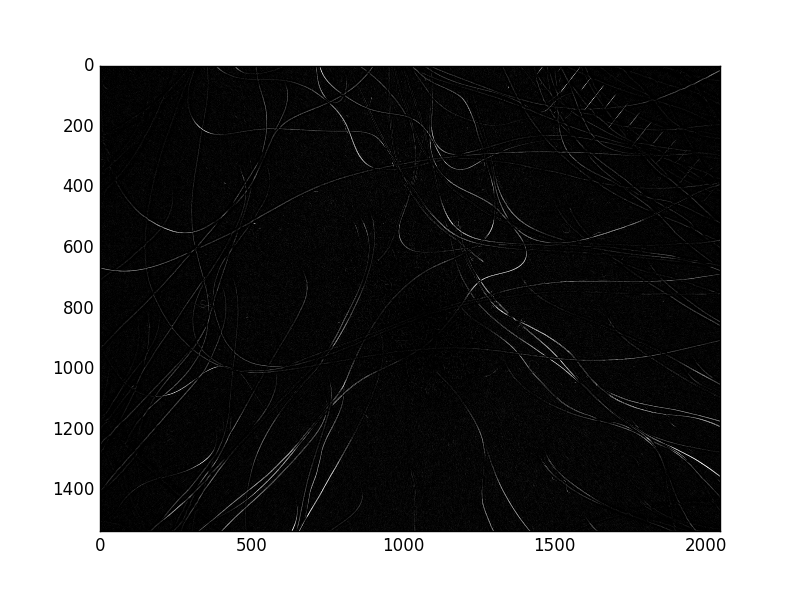
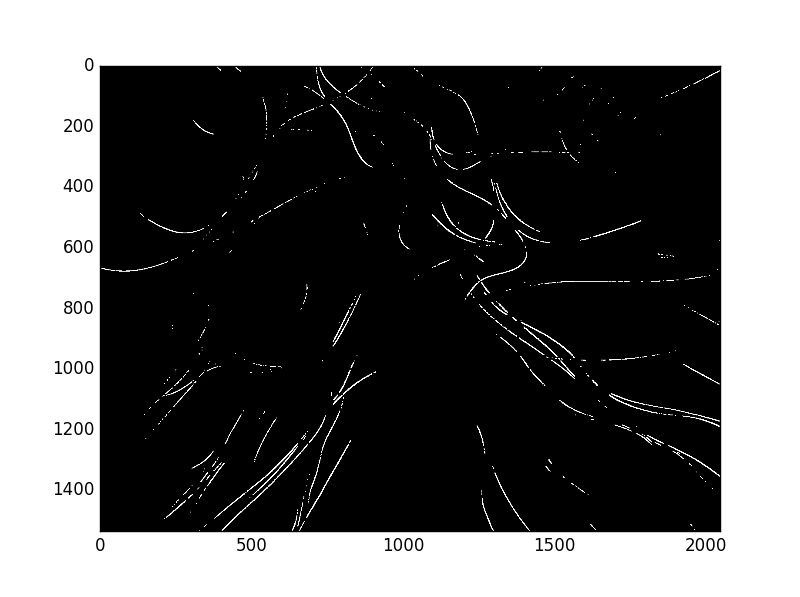
hairRemove, median filter, guided filter

diff --git a/fusion.py b/fusion.py
@@ -1,0 +1,94 @@
+from imagerie import *
+from scipy.ndimage.filters import laplace
+from scipy.ndimage import uniform_filter, gaussian_filter
+
+
+def extract_windows(A, size, padding=True):
+    # inspired by http://stackoverflow.com/questions/30109068/implement-matlabs-im2col-sliding-in-python
+    if padding:
+        before = int((size - 1) / 2)
+        after = size - 1 - before
+        A = np.pad(A, ((before, after), (before, after)), 'mean')
+    M,N = A.shape
+    B = [M - size + 1, N - size + 1]
+    col_extent = N - B[1] + 1
+    row_extent = M - B[0] + 1
+    start_idx = np.arange(B[0])[:,None]*N + np.arange(B[1])
+    offset_idx = np.arange(row_extent)[:,None]*N + np.arange(col_extent)
+    return np.take (A,start_idx.ravel()[:,None] + offset_idx.ravel())
+
+def guided_filtering(im, guide, size=3, epsilon=0.1):
+    if size % 2 != 1:
+        raise ArgumentError('Size must be an odd number.')
+    
+    if len(guide.shape) >= 3:
+        return sum([guided_filtering(im, guide[:,:,k], size, epsilon) for k in range(guide.shape[2])])
+        
+    # extract windows
+    im_wins = extract_windows(im, size)
+    guide_wins = extract_windows(guide, size)
+    
+    mu_k = guide_wins.mean(axis=1)
+    nu_k = im_wins.mean(axis=1)
+    delta_k = guide_wins.std(axis=1)
+    a_k = (im_wins * guide_wins).mean(axis=1) - mu_k * nu_k / (delta_k + epsilon)
+    b_k = nu_k - a_k * mu_k
+    
+    a_wins = extract_windows(a_k.reshape(*im.shape), size)
+    b_wins = extract_windows(b_k.reshape(*im.shape), size)
+    
+    return a_wins.mean(axis=1).reshape(*im.shape) * guide + b_wins.mean(axis=1).reshape(*im.shape)
+
+def extract_maps(im, average_filter_size=31, sigma_r=5):
+    base_layer = uniform_filter(im, size=average_filter_size)
+    detail_layer = im - base_layer
+    if len(im.shape) >= 3:
+        imgray = rgb2gray(im)
+    else:
+        imgray = im.astype(np.float64) - 0.0001
+    saliency = gaussian_filter(abs(laplace(imgray)), sigma_r)
+    return base_layer, detail_layer, saliency
+
+def GFF(images,
+        average_filter_size = 31,
+        sigma_r=5,
+        r_base=5,
+        epsilon_base=2,
+        r_detail=5,
+        epsilon_detail=0.1,
+        return_info=False):
+    
+    base_layers, detail_layers, saliencies = zip(*[extract_maps(im, average_filter_size, sigma_r) for im in images])
+    saliency_idx = np.argmax(saliencies, axis=0)
+    
+    masks = [saliency_idx == i for i in range(len(images))]
+    
+    base_weights = [guided_filtering(mask, im / 255, size=r_base, epsilon=epsilon_base) for im, mask in zip(images, masks)]
+    detail_weights = [guided_filtering(mask, im / 255, size=r_detail, epsilon=epsilon_detail) for im, mask in zip(images, masks)]
+    
+    # a bit hacky
+    if len(images[0].shape) >= 3:
+        base_weights = [w[:,:,None] for w in base_weights]
+        detail_weights = [w[:,:,None] for w in detail_weights]
+    
+    base = sum([base * weight for base, weight in zip(base_layers, base_weights)]) / sum(base_weights)
+    detail = sum([detail * weight for detail, weight in zip(detail_layers, base_weights)]) / sum(base_weights)
+    
+    result = base + detail
+    
+    if not return_info:
+        return result
+    
+    info = {}
+    info['saliencies'] = saliencies
+    info['masks'] = masks
+    return result, info
+
+def cGFF(images, *args, **kwargs):
+    r = GFF([i.astype(np.float64) for i in images], *args, **kwargs)
+    if type(r) == tuple:
+        (r[0].astype(np.uint8),) + r[1:]
+        return r
+    else:
+        return r.astype(np.uint8)
+

diff --git a/guidedFilter.py b/guidedFilter.py
@@ -1,0 +1,66 @@
+import numpy as np
+import os
+import glob
+import cv2
+import math
+import matplotlib.pyplot as plt
+import time
+import re
+
+from imagerie import *
+from fusion import *
+from scipy.misc import toimage, imsave
+from scipy.ndimage.filters import laplace
+from scipy.ndimage import uniform_filter, gaussian_filter
+
+img1 = cv2.imread('11.jpg')
+img2 = cv2.imread('11.jpg')
+plt.imshow(cv2.cvtColor(img1, cv2.COLOR_BGR2RGB))
+plt.show()
+
+def extract_maps(im, average_filter_size=31, sigma_r=5):
+    base_layer = uniform_filter(im, size=average_filter_size)
+    detail_layer = im - base_layer
+    if len(im.shape) >= 3:
+        imgray = rgb2gray(im)
+    else:
+        imgray = im.astype(np.float64) - 0.0001
+    saliency = gaussian_filter(abs(laplace(imgray)), sigma_r)
+    return base_layer, detail_layer, saliency
+
+def GFF(images,
+        average_filter_size = 31,
+        sigma_r=5,
+        r_base=5,
+        epsilon_base=2,
+        r_detail=5,
+        epsilon_detail=0.1):
+    
+    base_layers, detail_layers, saliencies = zip(*[extract_maps(im, average_filter_size, sigma_r) for im in images])
+    saliency_idx = np.argmax(saliencies, axis=0)
+    
+    masks = [saliency_idx == i for i in range(len(images))]
+    
+    base_weights = [guided_filtering(mask, im / 255, size=r_base, epsilon=epsilon_base) for im, mask in zip(images, masks)]
+    detail_weights = [guided_filtering(mask, im / 255, size=r_detail, epsilon=epsilon_detail) for im, mask in zip(images, masks)]
+    
+    # a bit hacky
+    if len(images[0].shape) >= 3:
+        base_weights = [w[:,:,None] for w in base_weights]
+        detail_weights = [w[:,:,None] for w in detail_weights]
+    
+    base = sum([base * weight for base, weight in zip(base_layers, base_weights)]) / sum(base_weights)
+    detail = sum([detail * weight for detail, weight in zip(detail_layers, base_weights)]) / sum(base_weights)
+    
+    return detail + base
+
+final = GFF([img1, img2])
+print(final.shape)
+cv2.imshow("closeLAB", final)
+
+# plt.imshow(final)
+# plt.show()
+
+plt.imshow(cv2.cvtColor(final, cv2.COLOR_BGR2RGB))
+plt.show()
+cv2.waitKey(0)

diff --git a/hairRemove.py b/hairRemove.py
@@ -6,6 +6,7 @@ import math
 import matplotlib.pyplot as plt
 import time
 import re
+from scipy import ndimage
 
 img = cv2.imread('2.jpg')
 
@@ -20,30 +21,74 @@ plt.show()
 
 imgLAB = cv2.cvtColor(img, cv2.COLOR_BGR2LAB)
 # cv2.imshow("original LAB", imgLAB)
-plt.imshow(cv2.cvtColor(imgLAB, cv2.COLOR_BGR2RGB))
-plt.show()
+# plt.imshow(cv2.cvtColor(imgLAB, cv2.COLOR_BGR2RGB))
+# plt.show()
 imgLAB1 = imgLAB[:,:,0]
-plt.imshow(imgLAB1, cmap = 'gray')
-plt.show()
+# plt.imshow(imgLAB1, cmap = 'gray')
+# plt.show()
 
 closeLAB = cv2.morphologyEx(imgLAB, cv2.MORPH_CLOSE, kernel)
 print(imgLAB.shape, closeLAB.shape)
 imgLAB2 = closeLAB[:,:,0]
 print(imgLAB2.shape)
-plt.imshow(imgLAB2, cmap = 'gray')
-plt.show()
+# plt.imshow(imgLAB2, cmap = 'gray')
+# plt.show()
 
 finalLAB = imgLAB2 - imgLAB1
-plt.imshow(finalLAB, cmap = 'gray')
-plt.show()
+# plt.imshow(finalLAB, cmap = 'gray')
+# plt.show()
 
 ret,thresh1 = cv2.threshold(finalLAB,20,255,cv2.THRESH_BINARY)
-plt.imshow(thresh1, cmap = 'gray')
-plt.show()
+# plt.imshow(thresh1, cmap = 'gray')
+# plt.show()
 
 thresh2 = cv2.morphologyEx(thresh1, cv2.MORPH_OPEN, kernel2)
 plt.imshow(thresh2, cmap = 'gray')
 plt.show()
+print('hola',thresh2.shape)
+print(img.shape)
+m = thresh2.shape[0]
+n = thresh2.shape[1]
+print(n)
+print(m)
+print(img.dtype)
+
+# a = thresh2 > 0
+# print(a)
+# x = np.argwhere(a)
+# print(x)
+# x[:,[0,1]] = x[:,[1,0]]
+
+# for k,i in enumerate(x):
+#     print(k)
+#     img.itemset((i[0],i[1],0),0)
+#     img.itemset((i[0],i[1],1),0)
+#     img.itemset((i[0],i[1],2),0)
+
+
+# print(x)
+# print(x.shape)
+# print(img.shape)
+# img[x] = [0,0,0]
+
+
+for i in range(thresh2.shape[0]):
+    for j in range(thresh2.shape[1]):
+        if (thresh2[i,j] > 0):
+            # img[i,j] = [0,0,0]
+            img.itemset((i,j,0),255)
+            img.itemset((i,j,1),255)
+            img.itemset((i,j,2),255)
+
+
+
+plt.imshow(cv2.cvtColor(img, cv2.COLOR_BGR2RGB))
+plt.show()
+
+img = ndimage.median_filter(img, 3)
+plt.imshow(cv2.cvtColor(img, cv2.COLOR_BGR2RGB))
+plt.show()
+
 # cv2.imshow("closeLAB", closeLAB)
 # cv2.waitKey(0)
 

diff --git a/imagerie.py b/imagerie.py
@@ -1,0 +1,60 @@
+import numpy as np
+from matplotlib import pyplot as plt
+from scipy.ndimage import imread
+from scipy.misc import imresize, toimage
+plt.rcParams['figure.figsize'] = (14, 8)
+
+def rgb2gray(img):
+    w = np.array([0.2989, 0.5870, 0.1140]).reshape((1, 1, -1))
+    return (img * w).sum(axis=2)
+
+def rgba2gray(img):
+    w = np.array([0.2989, 0.5870, 0.1140, 0.0]).reshape((1, 1, -1))
+    return (img * w).sum(axis=2)
+
+def imshow(img):
+    if len(img.shape) == 2 or img.shape[2] == 1:
+        if img.dtype == np.dtype('int'):
+            f = plt.imshow(img, cmap='gray', clim=(0, 255))
+        else:
+            f = plt.imshow(img, cmap='gray')
+    else:
+        f = plt.imshow(img)
+    plt.show()
+    return f
+        
+def plot_histogram(x, title=None):
+    hist, bins = x
+    width = (bins[1] - bins[0])
+    center = (bins[:-1] + bins[1:]) / 2
+    plt.bar(center, hist, align='center', width=width, color='black')
+    if title is not None:
+        plt.title(title)
+    plt.show()
+    
+tr = np.transpose
+
+def histogram_equalization(imgray):
+    imhist, bins = np.histogram(imgray, bins=range(257))
+    imhist = imhist / imgray.size
+    imhistcum = imhist.cumsum()
+    imeq = imhistcum[imgray.astype(int)] * 256
+    return imeq
+
+def add_gaussian_noise(u, sigma=1.0):
+    return u + sigma * np.random.randn(*(u.shape))
+
+def add_uniform_noise(u, amp=1.0):
+    return u + np.random.uniform(low=-amp, high=+amp, size=u.shape)
+
+def add_impulse_noise(u, p=1.0):
+    mask = np.random.random(u.shape) < p
+    noise = np.random.randint(256, size=u.shape)
+    return u * (1 - mask) + noise * mask
+
+def uniformly_quantify(u, k):
+    step = (k - 1) / 255
+    return (np.floor(u * step) + 0.5) / step
+
+def imwrite(filename, matrix):
+    toimage(matrix, cmin=0, cmax=256).save(filename)
